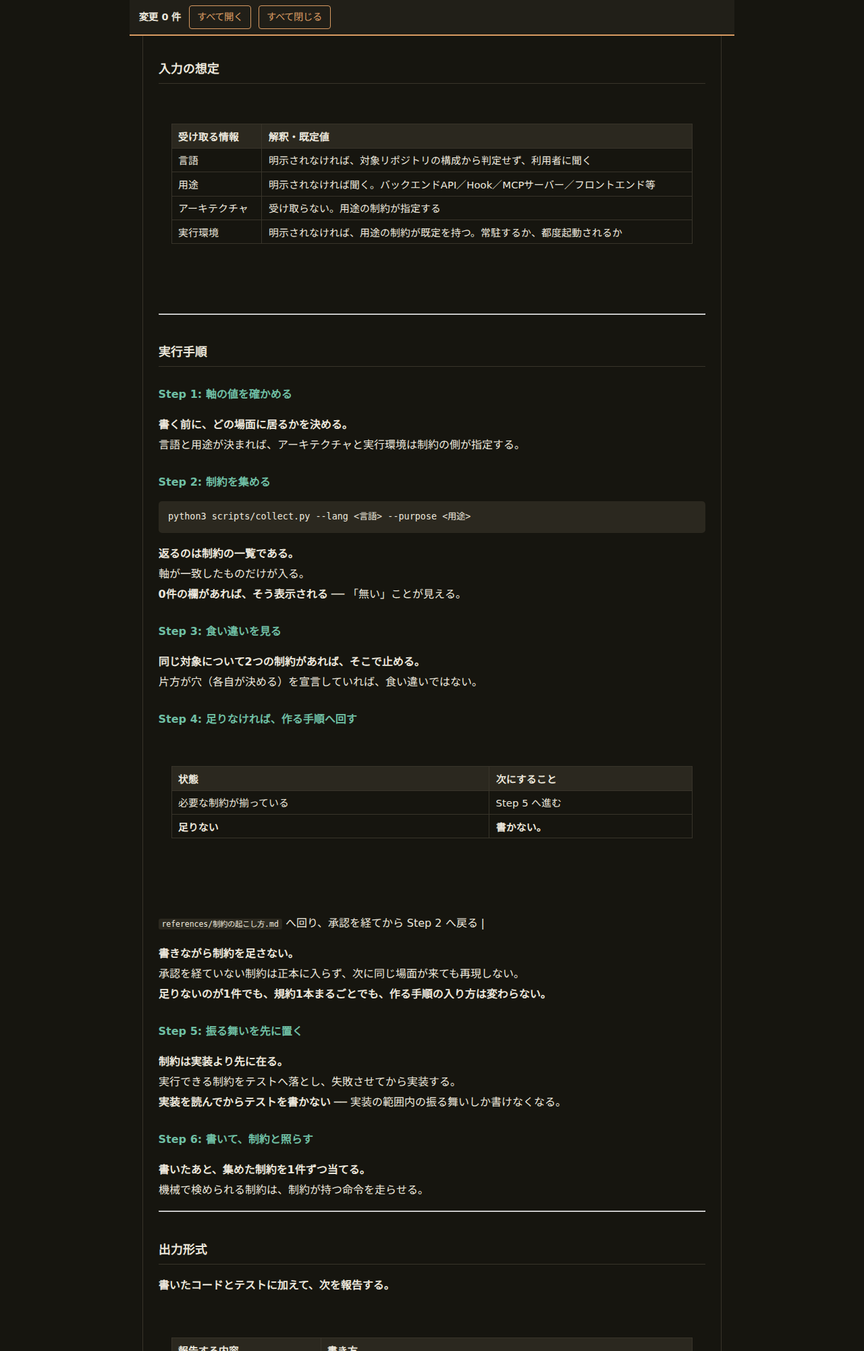
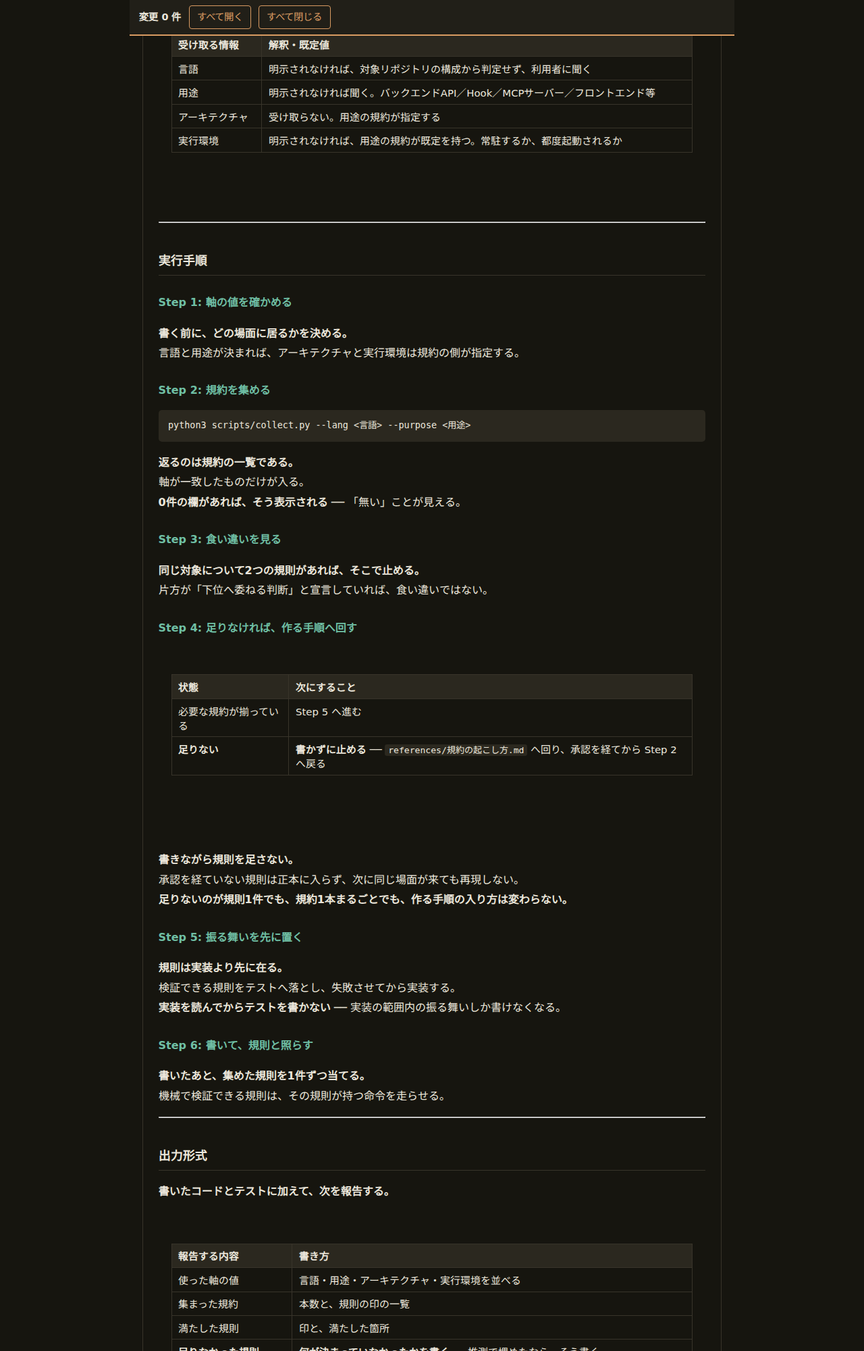
語を規約・規則・宣言へ統一し、割れた表を直す
制約という語をやめ、規約（文書1本）・規則（言明1件）・宣言（表と図）に分けた。
references/制約の起こし方.md を規約の起こし方.md へ改名し、本文の語も全部
揃えた（残り0件）。

強調の自動修正が表の行を割っていたので、6行をつなぎ直し、表の中では
「。**」の代わりに「── 」で繋ぐようにした。

Claude-Session: https://claude.ai/code/session_01VoPqHBXHr7Npdh9tNXyFNU

diff --git a/docs/adr/coding-skills-templates.html b/docs/adr/coding-skills-templates.html
@@ -85,100 +85,90 @@ color:inherit;opacity:.8;background:rgba(128,128,128,.12);padding:.5rem .6rem;bo
 
 <div class="wrap">
 <h1>CodingSkills の雛形（候補・第2版）</h1>
-<p class="lede"><b>規約は、種別ごとに構造が違う。</b>構造（表と図で宣言する）／規則（守るべき言明の並び）／道具（道具と版の表）／保証（何をどの単位で確かめるか）の4つの雛形を持つ。<b>層の構成やフォルダの並びは、守るべき言明の羅列では表せない。</b>実例は規則と構造の2本を置いた。</p>
+<p class="lede"><b>規約は、種別ごとに構造が違う。</b>構造（表と図で宣言する）／規則（守るべき言明の並び）／道具（道具と版の表）／保証（何をどの単位で確かめるか）の4つの雛形を持つ。<b>層の構成やフォルダの並びは、守るべき言明の羅列では表せない。</b>語も直した ── 出どころ→出典、検め方→検証、守った例／破った例→適合例／違反例、空けた穴→下位へ委ねる判断。</p>
 
 <div id="bar"><b>変更 0 件</b>
 <button id="oa">すべて開く</button><button id="ca">すべて閉じる</button></div>
 <div id="tabs" role="tablist"><button class="tab" role="tab" data-t="s">SKILL.md<span class="n">0</span></button><button class="tab" role="tab" data-t="v">references／語彙<span class="n">0</span></button><button class="tab" role="tab" data-t="a">references／軸<span class="n">0</span></button><button class="tab" role="tab" data-t="src">references／出典<span class="n">0</span></button><button class="tab" role="tab" data-t="ld">references／層ごとの規約<span class="n">0</span></button><button class="tab" role="tab" data-t="hw">references／規約の起こし方<span class="n">0</span></button><button class="tab" role="tab" data-t="t1">雛形／構造<span class="n">0</span></button><button class="tab" role="tab" data-t="t2">雛形／規則<span class="n">0</span></button><button class="tab" role="tab" data-t="t3">雛形／道具<span class="n">0</span></button><button class="tab" role="tab" data-t="t4">雛形／保証<span class="n">0</span></button><button class="tab" role="tab" data-t="e1">実例／規則　lang.rust／failure<span class="n">0</span></button><button class="tab" role="tab" data-t="e2">実例／構造　arch.hexagonal／layers<span class="n">0</span></button><button class="tab" role="tab" data-t="sc">scripts／README<span class="n">0</span></button></div>
 <section class="pane md" data-k="s" hidden><div class="doc"><hr>
-<p>name: coding-skills<br>description: 目的と言語を受け取り、その場面に効く制約を集めて、それに従ってコードを書くときに使う。制約が足りないときは、書く前に制約を起こす手順へ回す。「Goでバックエンドを書く」「RustでHookを書く」「この規約に沿って実装して」と言われたときに使う。</p>
+<p>name: coding-skills<br>description: 目的と言語を受け取り、その場面に効く規約を集めて、それに従ってコードを書くときに使う。規約が足りないときは、書く前に規約を起こす手順へ回す。「Goでバックエンドを書く」「RustでHookを書く」「この規約に沿って実装して」と言われたときに使う。</p>
 <hr>
 <h2>目的</h2>
-<p><strong>その場面に効く制約だけを集め、制約に従って書く。</strong><br>制約は選択肢を減らす言明であり、<strong>どの制約にも、それが真であり続ける範囲がある</strong>。<br>範囲は軸（言語・アーキテクチャ・用途・実行環境）の組み合わせで決まる。</p>
-<p><strong>このSkillは、書きながら制約を作らない。</strong><br>足りないと分かったら、書く手を止めて <code>references/制約の起こし方.md</code> へ回る。<br><strong>新しい言語・アーキテクチャ・用途が来たら、そこで規約を新しく起こす</strong> ── ただし作る手順を通り、人の承認を経てからである。</p>
-<div class="wrap"><table><tr><th>語</th><th>何を指すか</th></tr><tr><td>規約</td><td>1本の文書。ファイル1つ。**</td></tr></table></div>
-<p>種別ごとに構造が違う**（構造／規則／道具／保証） |</p>
-<div class="wrap"><table></table></div>
+<p><strong>その場面に効く規約だけを集め、それに従って書く。</strong><br>規約が持つ規則は選択肢を減らす言明であり、<strong>どの規則にも、それが真であり続ける範囲がある</strong>。<br>範囲は軸（言語・アーキテクチャ・用途・実行環境）の組み合わせで決まる。</p>
+<p><strong>このSkillは、書きながら規約を作らない。</strong><br>足りないと分かったら、書く手を止めて <code>references/規約の起こし方.md</code> へ回る。<br><strong>新しい言語・アーキテクチャ・用途が来たら、そこで規約を新しく起こす</strong> ── ただし作る手順を通り、人の承認を経てからである。</p>
+<div class="wrap"><table><tr><th>語</th><th>何を指すか</th></tr><tr><td>規約</td><td>1本の文書。ファイル1つ。<strong>種別ごとに構造が違う</strong>（構造／規則／道具／保証）</td></tr><tr><td>規則</td><td>守るべき言明1件。規則の規約と保証の規約だけが持つ</td></tr></table></div>
 <p><strong>語の一覧は <code>references/語彙.md</code> にある。</strong></p>
 <hr>
 <h2>役割</h2>
-<p>- 入力の軸の値から、合致する制約を集める<br>- 集めた制約が、同じ対象について食い違っていないかを見る<br>- 実行できる制約はテストへ、それ以外は書き方の拘束として実装へ渡す<br>- 足りない制約に気づいたら、書く前に作る手順へ回す</p>
+<p>- 入力の軸の値から、合致する規約を集める<br>- 集めた規約が、同じ対象について食い違っていないかを見る<br>- 検証できる規則はテストへ、それ以外は書き方の拘束として実装へ渡す<br>- 足りない規約に気づいたら、書く前に作る手順へ回す</p>
 <hr>
 <h2>処理対象と成果物</h2>
 <h3>処理対象</h3>
 <p><strong>これから書くコードと、その場面を表す軸の値である。</strong></p>
 <h3>成果物</h3>
-<p><strong>制約を満たすコードと、そのテストである。</strong><br>集めた制約のうち、どれを満たし、どれが足りなかったかを添える。</p>
+<p><strong>規約を満たすコードと、そのテストである。</strong><br>集めた規則のうち、どれを満たし、どれが足りなかったかを添える。</p>
 <hr>
 <h2>入力の想定</h2>
-<div class="wrap"><table><tr><th>受け取る情報</th><th>解釈・既定値</th></tr><tr><td>言語</td><td>明示されなければ、対象リポジトリの構成から判定せず、利用者に聞く</td></tr><tr><td>用途</td><td>明示されなければ聞く。バックエンドAPI／Hook／MCPサーバー／フロントエンド等</td></tr><tr><td>アーキテクチャ</td><td>受け取らない。用途の制約が指定する</td></tr><tr><td>実行環境</td><td>明示されなければ、用途の制約が既定を持つ。常駐するか、都度起動されるか</td></tr></table></div>
+<div class="wrap"><table><tr><th>受け取る情報</th><th>解釈・既定値</th></tr><tr><td>言語</td><td>明示されなければ、対象リポジトリの構成から判定せず、利用者に聞く</td></tr><tr><td>用途</td><td>明示されなければ聞く。バックエンドAPI／Hook／MCPサーバー／フロントエンド等</td></tr><tr><td>アーキテクチャ</td><td>受け取らない。用途の規約が指定する</td></tr><tr><td>実行環境</td><td>明示されなければ、用途の規約が既定を持つ。常駐するか、都度起動されるか</td></tr></table></div>
 <hr>
 <h2>実行手順</h2>
 <h3>Step 1: 軸の値を確かめる</h3>
-<p><strong>書く前に、どの場面に居るかを決める。</strong><br>言語と用途が決まれば、アーキテクチャと実行環境は制約の側が指定する。</p>
-<h3>Step 2: 制約を集める</h3>
+<p><strong>書く前に、どの場面に居るかを決める。</strong><br>言語と用途が決まれば、アーキテクチャと実行環境は規約の側が指定する。</p>
+<h3>Step 2: 規約を集める</h3>
 <pre class="code">python3 scripts/collect.py --lang &lt;言語&gt; --purpose &lt;用途&gt;</pre>
-<p><strong>返るのは制約の一覧である。</strong><br>軸が一致したものだけが入る。<br><strong>0件の欄があれば、そう表示される</strong> ── 「無い」ことが見える。</p>
+<p><strong>返るのは規約の一覧である。</strong><br>軸が一致したものだけが入る。<br><strong>0件の欄があれば、そう表示される</strong> ── 「無い」ことが見える。</p>
 <h3>Step 3: 食い違いを見る</h3>
-<p><strong>同じ対象について2つの制約があれば、そこで止める。</strong><br>片方が穴（各自が決める）を宣言していれば、食い違いではない。</p>
+<p><strong>同じ対象について2つの規則があれば、そこで止める。</strong><br>片方が「下位へ委ねる判断」と宣言していれば、食い違いではない。</p>
 <h3>Step 4: 足りなければ、作る手順へ回す</h3>
-<div class="wrap"><table><tr><th>状態</th><th>次にすること</th></tr><tr><td>必要な制約が揃っている</td><td>Step 5 へ進む</td></tr><tr><td><strong>足りない</strong></td><td><strong>書かない。</strong></td></tr></table></div>
-<p><code>references/制約の起こし方.md</code> へ回り、承認を経てから Step 2 へ戻る |</p>
-<p><strong>書きながら制約を足さない。</strong><br>承認を経ていない制約は正本に入らず、次に同じ場面が来ても再現しない。<br><strong>足りないのが1件でも、規約1本まるごとでも、作る手順の入り方は変わらない。</strong></p>
+<div class="wrap"><table><tr><th>状態</th><th>次にすること</th></tr><tr><td>必要な規約が揃っている</td><td>Step 5 へ進む</td></tr><tr><td><strong>足りない</strong></td><td><strong>書かずに止める</strong> ── <code>references/規約の起こし方.md</code> へ回り、承認を経てから Step 2 へ戻る</td></tr></table></div>
+<p><strong>書きながら規則を足さない。</strong><br>承認を経ていない規則は正本に入らず、次に同じ場面が来ても再現しない。<br><strong>足りないのが規則1件でも、規約1本まるごとでも、作る手順の入り方は変わらない。</strong></p>
 <h3>Step 5: 振る舞いを先に置く</h3>
-<p><strong>制約は実装より先に在る。</strong><br>実行できる制約をテストへ落とし、失敗させてから実装する。<br><strong>実装を読んでからテストを書かない</strong> ── 実装の範囲内の振る舞いしか書けなくなる。</p>
-<h3>Step 6: 書いて、制約と照らす</h3>
-<p><strong>書いたあと、集めた制約を1件ずつ当てる。</strong><br>機械で検められる制約は、制約が持つ命令を走らせる。</p>
+<p><strong>規則は実装より先に在る。</strong><br>検証できる規則をテストへ落とし、失敗させてから実装する。<br><strong>実装を読んでからテストを書かない</strong> ── 実装の範囲内の振る舞いしか書けなくなる。</p>
+<h3>Step 6: 書いて、規則と照らす</h3>
+<p><strong>書いたあと、集めた規則を1件ずつ当てる。</strong><br>機械で検証できる規則は、その規則が持つ命令を走らせる。</p>
 <hr>
 <h2>出力形式</h2>
 <p><strong>書いたコードとテストに加えて、次を報告する。</strong></p>
-<div class="wrap"><table><tr><th>報告する内容</th><th>書き方</th></tr><tr><td>使った軸の値</td><td>言語・用途・アーキテクチャ・実行環境を並べる</td></tr><tr><td>集まった制約</td><td>件数と、印の一覧</td></tr><tr><td>満たした制約</td><td>印と、満たした箇所</td></tr><tr><td><strong>足りなかった制約</strong></td><td><strong>何が決まっていなかったかを書く。</strong></td></tr></table></div>
-<p>推測で埋めたなら、そう書く |</p>
-<div class="wrap"><table></table></div>
+<div class="wrap"><table><tr><th>報告する内容</th><th>書き方</th></tr><tr><td>使った軸の値</td><td>言語・用途・アーキテクチャ・実行環境を並べる</td></tr><tr><td>集まった規約</td><td>本数と、規則の印の一覧</td></tr><tr><td>満たした規則</td><td>印と、満たした箇所</td></tr><tr><td><strong>足りなかった規則</strong></td><td><strong>何が決まっていなかったかを書く</strong> ── 推測で埋めたなら、そう書く</td></tr><tr><td>検証した手段</td><td>走らせた命令と、その結果</td></tr></table></div>
 <hr>
 <h2>ガードレール</h2>
-<p>- <strong>書きながら制約を足さない。</strong><br>足りないと分かったら、作る手順へ回す<br>- <strong>実装を読んでからテストを書かない。</strong><br>制約が先に在る<br>- <strong>軸の値を推測しない。</strong><br>分からなければ聞く<br>- <strong>集めた制約を要約しない。</strong><br>言明はそのまま当てる<br>- <strong>プロジェクト固有の決めごとを制約として扱わない。</strong><br>出典を持たないものは制約ではない<br>- <strong>穴（各自が決める）の外を特殊化しない。</strong><br>必要なら、上の層の制約を直す</p>
+<p>- <strong>書きながら規則を足さない。</strong><br>足りないと分かったら、作る手順へ回す<br>- <strong>実装を読んでからテストを書かない。</strong><br>規則が先に在る<br>- <strong>軸の値を推測しない。</strong><br>分からなければ聞く<br>- <strong>集めた規則を要約しない</strong> ── 言明はそのまま当てる<br>- <strong>プロジェクト固有の決めごとを規則として扱わない</strong> ──<br>出典を持たないものは規則ではない<br>- <strong>穴（各自が決める）の外を特殊化しない。</strong><br>必要なら、上の層の規約を直す</p>
 <hr>
 <h2>参照</h2>
-<p>- <code>references/制約の起こし方.md</code>: 制約を新しく起こす手順（原典を落とす → 書く → 承認）<br>- <code>references/軸.md</code>: 軸の定義と、軸を足すときの判定<br>- <code>references/出典.md</code>: 何を出典として認めるか<br>- <code>references/層ごとの文書.md</code>: どの層に、どの文書を置くか<br>- <code>references/語彙.md</code>: この Skill が使う語<br>- <code>templates/構造の規約.md</code>: 層や依存を宣言する規約の雛形<br>- <code>templates/規則の規約.md</code>: 守るべき言明を並べる規約の雛形<br>- <code>templates/道具の規約.md</code>: 道具と版を定める規約の雛形<br>- <code>templates/保証の規約.md</code>: 保証する振る舞いを定める規約の雛形</p></div></section><section class="pane md" data-k="v" hidden><div class="doc"><h1>語彙 ── この Skill が使う語</h1>
+<p>- <code>references/規約の起こし方.md</code>: 規約を新しく起こす手順（原典を落とす → 書く → 承認）<br>- <code>references/軸.md</code>: 軸の定義と、軸を足すときの判定<br>- <code>references/出典.md</code>: 何を出典として認めるか<br>- <code>references/層ごとの文書.md</code>: どの層に、どの文書を置くか<br>- <code>references/語彙.md</code>: この Skill が使う語<br>- <code>templates/構造の規約.md</code>: 層や依存を宣言する規約の雛形<br>- <code>templates/規則の規約.md</code>: 守るべき言明を並べる規約の雛形<br>- <code>templates/道具の規約.md</code>: 道具と版を定める規約の雛形<br>- <code>templates/保証の規約.md</code>: 保証する振る舞いを定める規約の雛形</p></div></section><section class="pane md" data-k="v" hidden><div class="doc"><h1>語彙 ── この Skill が使う語</h1>
 <h2>概要</h2>
 <p><strong>同じ意味に2つの語を当てず、違う意味に同じ語を当てない。</strong><br>迷ったら、この表に戻る。</p>
 <h2>語</h2>
-<div class="wrap"><table><tr><th>語</th><th>何を指すか</th><th>例</th></tr><tr><td><strong>規約</strong></td><td>1本の文書。ファイル1つ。**</td></tr></table></div>
-<p>種別ごとに構造が違う** | <code>constraints/lang.rust/failure.md</code> |</p>
-<div class="wrap"><table><tr><th><strong>規則</strong></th><th>守るべき言明1件。規則の規約と保証の規約だけが持つ</th><th>「回復できる失敗は <code>Result</code> で返す」</th></tr><tr><td><strong>宣言</strong></td><td>構造や道具を並べた表と図。規則ではない</td><td>層の一覧、依存の可否、道具と版</td></tr><tr><td><strong>軸</strong></td><td>変えられるもの。言語・アーキテクチャ・用途・実行環境</td><td>言語＝<code>rust</code></td></tr><tr><td><strong>種別</strong></td><td>規約の型。構造／規則／道具／保証の4つ</td><td><code>failure.md</code> は規則</td></tr><tr><td><strong>層</strong></td><td>その制約が依存する軸の集合。宣言から導出される</td><td><code>lang.rust+arch.hexagonal</code></td></tr><tr><td><strong>下位へ委ねる判断</strong></td><td>上位が決めず、下位が決めてよいと宣言した1点</td><td>失敗の列挙の粒度</td></tr><tr><td><strong>正本</strong></td><td>承認を経た規約が置かれる場所</td><td><code>constraints/</code> の下</td></tr><tr><td><strong>集める</strong></td><td>軸の値が一致した規約を、正本から取り出すこと</td><td><code>scripts/collect.py</code></td></tr></table></div>
+<div class="wrap"><table><tr><th>語</th><th>何を指すか</th><th>例</th></tr><tr><td><strong>規約</strong></td><td>1本の文書。ファイル1つ。<strong>種別ごとに構造が違う</strong></td><td><code>constraints/lang.rust/failure.md</code></td></tr><tr><td><strong>規則</strong></td><td>守るべき言明1件。規則の規約と保証の規約だけが持つ</td><td>「回復できる失敗は <code>Result</code> で返す」</td></tr><tr><td><strong>宣言</strong></td><td>構造や道具を並べた表と図。規則ではない</td><td>層の一覧、依存の可否、道具と版</td></tr><tr><td><strong>軸</strong></td><td>変えられるもの。言語・アーキテクチャ・用途・実行環境</td><td>言語＝<code>rust</code></td></tr><tr><td><strong>種別</strong></td><td>規約の型。構造／規則／道具／保証の4つ</td><td><code>failure.md</code> は規則</td></tr><tr><td><strong>層</strong></td><td>その規約が依存する軸の集合。宣言から導出される</td><td><code>lang.rust+arch.hexagonal</code></td></tr><tr><td><strong>下位へ委ねる判断</strong></td><td>上位が決めず、下位が決めてよいと宣言した1点</td><td>失敗の列挙の粒度</td></tr><tr><td><strong>正本</strong></td><td>承認を経た規約が置かれる場所</td><td><code>constraints/</code> の下</td></tr><tr><td><strong>集める</strong></td><td>軸の値が一致した規約を、正本から取り出すこと</td><td><code>scripts/collect.py</code></td></tr></table></div>
 <h2>使わない語</h2>
 <div class="wrap"><table><tr><th>使わない語</th><th>代わりに</th><th>なぜ</th></tr><tr><td>ルール</td><td>規則／規約</td><td>1件を指すのか文書を指すのかが決まらない</td></tr><tr><td>ガイドライン</td><td>規則</td><td>守らなくてよいものに見える。守らなくてよいなら、規則として置かない</td></tr><tr><td>ベストプラクティス</td><td>規則 ＋ 出典</td><td>出典を持たない言明は、この Skill では置けない</td></tr></table></div>
 <h2>数え方</h2>
-<div class="wrap"><table><tr><th>数えるもの</th><th>単位</th></tr><tr><td>規則</td><td>件</td></tr><tr><td>規約</td><td>本</td></tr><tr><td>層</td><td>── 数えない。軸の組み合わせが現れた数だけ在る</td></tr></table></div></div></section><section class="pane md" data-k="a" hidden><div class="doc"><h1>軸 ── 何が変わると、制約が変わるか</h1>
+<div class="wrap"><table><tr><th>数えるもの</th><th>単位</th></tr><tr><td>規則</td><td>件</td></tr><tr><td>規約</td><td>本</td></tr><tr><td>層</td><td>── 数えない。軸の組み合わせが現れた数だけ在る</td></tr></table></div></div></section><section class="pane md" data-k="a" hidden><div class="doc"><h1>軸 ── 何が変わると、規約が変わるか</h1>
 <h2>概要</h2>
-<p><strong>軸とは、変えられるもののことである。</strong><br>制約は、依存する軸の値が一致した場面でだけ効く。</p>
+<p><strong>軸とは、変えられるもののことである。</strong><br>規約は、依存する軸の値が一致した場面でだけ効く。</p>
 <h2>軸と認める条件</h2>
 <p><strong>一方を固定しても、もう一方が動くなら、それは別の軸である。</strong><br>独立かどうかは概念の性質なので、<strong>実例の件数では決めない</strong>。</p>
 <h2>いまの軸</h2>
 <div class="wrap"><table><tr><th>軸</th><th>値の例</th><th>何が決まるか</th></tr><tr><td>言語</td><td><code>go</code> ／ <code>rust</code></td><td>綴りと書式、失敗の運び方、並行の単位、テストが走る仕組み、標準の道具</td></tr><tr><td>アーキテクチャ</td><td><code>hexagonal</code></td><td>層の名前、依存の向き、層ごとの責務</td></tr><tr><td>用途</td><td><code>backend-api</code> ／ <code>hook</code> ／ <code>mcp-server</code> ／ <code>frontend</code></td><td>外との契約、起動と終了、保証する振る舞い、採るアーキテクチャ、採る道具</td></tr><tr><td>実行環境</td><td><code>resident</code> ／ <code>per-invocation</code></td><td>状態の持ち方、終了の仕方、起動のたびに払う費用</td></tr></table></div>
 <h2>軸を足すとき</h2>
-<div class="wrap"><table><tr><th>手順</th><th>内容</th></tr><tr><td>1</td><td>いまの軸のどれかを固定しても、その候補が動くかを確かめる</td></tr><tr><td>2</td><td>動くなら軸に上げる。動かないなら、既存の軸の値として表す</td></tr><tr><td>3</td><td><strong>既にある制約の宣言を見直す。</strong></td></tr></table></div>
-<p>足した軸に依存していた制約が、広すぎる宣言のまま残る |</p>
+<div class="wrap"><table><tr><th>手順</th><th>内容</th></tr><tr><td>1</td><td>いまの軸のどれかを固定しても、その候補が動くかを確かめる</td></tr><tr><td>2</td><td>動くなら軸に上げる。動かないなら、既存の軸の値として表す</td></tr><tr><td>3</td><td><strong>既にある規約の宣言を見直す</strong> ── 足した軸に依存していた規則が、広すぎる宣言のまま残る</td></tr></table></div>
 <h2>層</h2>
-<p><strong>層とは、その制約が依存する軸の集合である。</strong><br>層は宣言から導出されるので、<strong>あらかじめ並べない</strong>。</p>
+<p><strong>層とは、その規約が依存する軸の集合である。</strong><br>層は宣言から導出されるので、<strong>あらかじめ並べない</strong>。</p>
 <div class="wrap"><table><tr><th>層</th><th>依存する軸</th></tr><tr><td><code>lang.rust</code></td><td>言語</td></tr><tr><td><code>arch.hexagonal</code></td><td>アーキテクチャ</td></tr><tr><td><code>lang.rust+arch.hexagonal</code></td><td>言語、アーキテクチャ</td></tr><tr><td><code>purpose.hook</code></td><td>用途</td></tr></table></div>
 <h2>上書き</h2>
-<p><strong>下層は上層を上書きできない。</strong><br>上書きが要ると分かったら、それは<strong>その制約の軸の宣言が足りなかった</strong>ことの現れである。<br>値を変えず、依存する軸を直す。</p>
-<p><strong>例外は、上層が穴を宣言している場合だけである。</strong><br>穴の外は特殊化できない。</p></div></section><section class="pane md" data-k="src" hidden><div class="doc"><h1>出典 ── 制約は、何を根拠に書けるか</h1>
+<p><strong>下層は上層を上書きできない。</strong><br>上書きが要ると分かったら、それは<strong>その規約の軸の宣言が足りなかった</strong>ことの現れである。<br>値を変えず、依存する軸を直す。</p>
+<p><strong>例外は、上層が穴を宣言している場合だけである。</strong><br>穴の外は特殊化できない。</p></div></section><section class="pane md" data-k="src" hidden><div class="doc"><h1>出典 ── 規則は、何を根拠に書けるか</h1>
 <h2>概要</h2>
-<p><strong>出典を書けない制約は、制約として置けない。</strong><br>「誰かがそう決めた」しか言えないものは、他のプロジェクトへ持って行けない。</p>
+<p><strong>出典を書けない規則は、規則として置けない。</strong><br>「誰かがそう決めた」しか言えないものは、他のプロジェクトへ持って行けない。</p>
 <h2>認める出典</h2>
 <div class="wrap"><table><tr><th>種類</th><th>何を指すか</th><th>添えるもの</th></tr><tr><td>規格</td><td>言語仕様、RFC、プロトコルの仕様</td><td>版と、原文で照合する文字列</td></tr><tr><td>原典</td><td>公式ガイド、公式リファレンス、確立した文献</td><td>落とした日と、原文で照合する文字列</td></tr><tr><td>実測</td><td>自分で数えた記録</td><td>測った対象、件数、測った日</td></tr></table></div>
 <h2>認めない出典</h2>
-<div class="wrap"><table><tr><th>種類</th><th>なぜ認めないか</th></tr><tr><td>このプロジェクトの決めごと</td><td>場面が変われば成り立たない。**</td></tr></table></div>
-<p>入れた時点で、どの場面でも同じ答えを返すという前提が壊れる** |</p>
-<div class="wrap"><table><tr><th>要約されたもの</th><th>言い換えた時点で、原典とは別のものになる</th></tr><tr><td>出典を持たない経験則</td><td>正しいかもしれないが、確かめる先が無い</td></tr></table></div>
+<div class="wrap"><table><tr><th>種類</th><th>なぜ認めないか</th></tr><tr><td>このプロジェクトの決めごと</td><td>場面が変われば成り立たない。<strong>入れた時点で、どの場面でも同じ答えを返すという前提が壊れる</strong></td></tr><tr><td>要約されたもの</td><td>言い換えた時点で、原典とは別のものになる</td></tr><tr><td>出典を持たない経験則</td><td>正しいかもしれないが、確かめる先が無い</td></tr></table></div>
 <h2>照合の仕方</h2>
-<div class="wrap"><table><tr><th>手順</th><th>内容</th></tr><tr><td>1</td><td>原文を落とし、落とした日と <code>sha256</code> を残す</td></tr><tr><td>2</td><td>制約が使う識別子を、<strong>原文の文字列でそのまま照合する</strong></td></tr><tr><td>3</td><td>照合できなかった識別子は、原典の名前として書かない</td></tr></table></div>
+<div class="wrap"><table><tr><th>手順</th><th>内容</th></tr><tr><td>1</td><td>原文を落とし、落とした日と <code>sha256</code> を残す</td></tr><tr><td>2</td><td>規則が使う識別子を、<strong>原文の文字列でそのまま照合する</strong></td></tr><tr><td>3</td><td>照合できなかった識別子は、原典の名前として書かない</td></tr></table></div>
 <p><strong>URL だけでは足りない。</strong><br>指す先に届いているかを、誰も確かめられないためである。</p>
 <h2>版が変わったとき</h2>
-<p><strong>「公式」であることは、正しさを保証しない。</strong><br>版が上がったら、照合する文字列がまだ原文に在るかを確かめる。<br>無ければ、その制約は出典を失っている。</p></div></section><section class="pane md" data-k="ld" hidden><div class="doc"><h1>層ごとの規約 ── どの層に、どの規約を置くか</h1>
+<p><strong>「公式」であることは、正しさを保証しない。</strong><br>版が上がったら、照合する文字列がまだ原文に在るかを確かめる。<br>無ければ、その規則は出典を失っている。</p></div></section><section class="pane md" data-k="ld" hidden><div class="doc"><h1>層ごとの規約 ── どの層に、どの規約を置くか</h1>
 <h2>概要</h2>
 <p><strong>層ごとに、決められることが違う。</strong><br>だから置く規約も層ごとに違い、<strong>同じ4種別をすべての層へ並べない</strong>。</p>
 <h2>決められること／決められないこと</h2>
@@ -191,14 +181,14 @@ color:inherit;opacity:.8;background:rgba(128,128,128,.12);padding:.5rem .6rem;bo
 <p><strong>構造と道具は宣言であって、規則ではない。</strong><br>層の構成やフォルダの並びを、守るべき言明の羅列では表せない。</p>
 <div class="wrap"><table><tr><th>引きたいこと</th><th>どう引くか</th></tr><tr><td>この場面に効く規約を全部</td><td>軸の値で集める</td></tr><tr><td>構造の宣言だけ</td><td>種別で絞る</td></tr></table></div>
 <h2>空のマス</h2>
-<p><strong>その層で決まらないことの規約は、作らない。</strong><br>言語の層に「層と依存の向き」は無いので、<code>lang.go/dependency.md</code> は置かない。</p></div></section><section class="pane md" data-k="hw" hidden><div class="doc"><h1>制約の起こし方 ── 作る手順</h1>
+<p><strong>その層で決まらないことの規約は、作らない。</strong><br>言語の層に「層と依存の向き」は無いので、<code>lang.go/dependency.md</code> は置かない。</p></div></section><section class="pane md" data-k="hw" hidden><div class="doc"><h1>規約の起こし方 ── 作る手順</h1>
 <h2>概要</h2>
-<p><strong>制約は、書く手順の中では作らない。</strong><br>足りないと分かったら、この手順へ回る。承認を経たものだけが正本に入る。</p>
+<p><strong>規約は、書く手順の中では作らない。</strong><br>足りないと分かったら、この手順へ回る。承認を経たものだけが正本に入る。</p>
 <h2>手順</h2>
 <h3>Step 1: 原典を落とす</h3>
 <p><strong>要約を経由しない。</strong><br>原文を落とし、落とした日と <code>sha256</code> を残す。</p>
 <div class="wrap"><table><tr><th>対象</th><th>どう落とすか</th></tr><tr><td>言語仕様・公式ガイド</td><td>原文を取得して保存する。<code>.md</code> が返るなら、それが原文である</td></tr><tr><td>規格</td><td>版を明示して保存する</td></tr><tr><td>実測</td><td>測った対象・件数・測った日を、そのまま記録する</td></tr></table></div>
-<p><strong>原典が見つからないなら、そこで止める。</strong><br>出典を持たない制約は置けない。</p>
+<p><strong>原典が見つからないなら、そこで止める。</strong><br>出典を持たない規則は置けない。</p>
 <h3>Step 2: 言明を一文にする</h3>
 <p><strong>検査できる最小の言明にする。</strong><br>理由も例外も混ぜない。</p>
 <div class="wrap"><table><tr><th>悪い</th><th>なぜ悪いか</th><th>良い</th></tr><tr><td>エラーは値で返す。例外は呼び出し側が見落とすため</td><td>言明と理由が1文に入っている</td><td>エラーは値で返し、例外で流さない</td></tr><tr><td>命名は分かりやすくする</td><td>検査できない</td><td>型名は名詞句にし、動詞で始めない</td></tr></table></div>
@@ -208,18 +198,18 @@ color:inherit;opacity:.8;background:rgba(128,128,128,.12);padding:.5rem .6rem;bo
 <div class="wrap"><table><tr><th>問い</th><th>判定</th></tr><tr><td>言語を変えても真か</td><td>真なら、言語には依存しない</td></tr><tr><td>アーキテクチャを変えても真か</td><td>真なら、アーキテクチャには依存しない</td></tr><tr><td>用途を変えても真か</td><td>真なら、用途には依存しない</td></tr></table></div>
 <p><strong>依存する軸の集合が、そのまま置き場所（層）になる。</strong></p>
 <h3>Step 4: 欄を埋める</h3>
-<p><code>templates/制約.md</code> を写して埋める。<br><strong>埋まらない欄が残るなら、まだ制約になっていない。</strong></p>
+<p>その規約の種別に当たる雛形（<code>templates/構造の規約.md</code> など）を写して埋める。<br><strong>埋まらない欄が残るなら、まだ規約になっていない。</strong></p>
 <h3>Step 5: 検め方を決める</h3>
 <div class="wrap"><table><tr><th>誰が検めるか</th><th>書くこと</th></tr><tr><td>機械</td><td>走らせる命令を、そのまま書く</td></tr><tr><td>人</td><td>何を見るかを書く。「気をつける」とは書かない</td></tr></table></div>
 <h3>Step 6: 人の承認を得る</h3>
-<p><strong>承認を経てから、正本へ置く。</strong><br>承認されていない制約は、集める側から見えない。</p>
+<p><strong>承認を経てから、正本へ置く。</strong><br>承認されていない規約は、集める側から見えない。</p>
 <h3>Step 7: 索引を作り直す</h3>
 <pre class="code">python3 scripts/index.py</pre>
 <p><strong>索引は導出物である。</strong><br>手で書かない。</p>
-<h2>穴を宣言するとき</h2>
+<h2>下位へ委ねる判断を宣言するとき</h2>
 <p><strong>決めないことも、決定である。</strong><br>「ここは各自が決める」と書けば、下の層がそこだけを埋められる。</p>
-<div class="wrap"><table><tr><th>書き方</th><th>意味</th></tr><tr><td>穴か＝閉じている</td><td>下の層は、これを特殊化できない</td></tr><tr><td>穴か＝ここは各自が決める</td><td>下の層が、この1点だけを埋めてよい</td></tr></table></div>
-<p><strong>穴を宣言しないまま、下の層が特殊化を求めてきたら、軸の宣言を疑う。</strong></p></div></section><section class="pane md" data-k="t1" hidden><div class="doc"><hr>
+<div class="wrap"><table><tr><th>書き方</th><th>意味</th></tr><tr><td>委ねない</td><td>下の層は、これを特殊化できない</td></tr><tr><td>下位へ委ねる</td><td>下の層が、この1点だけを埋めてよい</td></tr></table></div>
+<p><strong>委ねると宣言しないまま、下の層が特殊化を求めてきたら、軸の宣言を疑う。</strong></p></div></section><section class="pane md" data-k="t1" hidden><div class="doc"><hr>
 <p>id: 《識別子。フォルダ名とファイル名から作る》<br>layer: 《軸の組み合わせ。フォルダ名と同じ》<br>axes:<br>  - axis: 《language / architecture / purpose / runtime》<br>    value: 《値》<br>category: architecture<br>declares: 《この規約が宣言する構造の名前》<br>updated: 《YYYY-MM-DD》</p>
 <hr>
 <h1>《宣言する構造の名前》</h1>
@@ -348,11 +338,11 @@ color:inherit;opacity:.8;background:rgba(128,128,128,.12);padding:.5rem .6rem;bo
 <h2>出典</h2>
 <div class="wrap"><table><tr><th>種類</th><th>原典</th><th>照合する文字列</th></tr><tr><td>原典</td><td>Alistair Cockburn「Hexagonal Architecture」（落とした日：《YYYY-MM-DD》）</td><td><code>ports and adapters</code></td></tr></table></div></div></section><section class="pane md" data-k="sc" hidden><div class="doc"><h1>scripts ── 機械が回すもの</h1>
 <h2>概要</h2>
-<p><strong>集める・検める・索引を出すの3つを、機械が行う。</strong><br>同じ問いに同じ範囲が返らないと、そのあとの推論の入力が毎回変わるためである。</p>
+<p><strong>集める・検証する・索引を出すの3つを、機械が行う。</strong><br>同じ問いに同じ範囲が返らないと、そのあとの推論の入力が毎回変わるためである。</p>
 <h2>置くもの</h2>
-<div class="wrap"><table><tr><th>命令</th><th>何をするか</th><th>返すもの</th></tr><tr><td><code>collect.py --lang &lt;言語&gt; --purpose &lt;用途&gt;</code></td><td>軸の値が一致する制約を集める</td><td>制約の一覧。0件の層も、0件として出す</td></tr><tr><td><code>check.py</code></td><td>制約の形を検める</td><td>欄の欠け、出典の空、フォルダ名と宣言した軸の食い違い</td></tr><tr><td><code>index.py</code></td><td>人が読む索引を作り直す</td><td>層ごとの一覧（生成物。手で書き換えない）</td></tr></table></div>
-<h2>検めること</h2>
-<div class="wrap"><table><tr><th>検査</th><th>落ちる条件</th></tr><tr><td>欄の欠け</td><td>言明・依存する軸・出どころ・検め方のどれかが空</td></tr><tr><td>出典</td><td>原文で照合する文字列が空、または原文に無い</td></tr><tr><td>置き場所</td><td>フォルダ名と、宣言した軸が食い違う</td></tr><tr><td>重なり</td><td>同じ対象について2つの制約があり、どちらも穴を宣言していない</td></tr></table></div>
+<div class="wrap"><table><tr><th>命令</th><th>何をするか</th><th>返すもの</th></tr><tr><td><code>collect.py --lang &lt;言語&gt; --purpose &lt;用途&gt;</code></td><td>軸の値が一致する規約を集める</td><td>規約と、その中の規則。0件の層も、0件として出す</td></tr><tr><td><code>check.py</code></td><td>規約の形を検証する</td><td>欄の欠け、出典の空、フォルダ名と宣言した軸の食い違い</td></tr><tr><td><code>index.py</code></td><td>人が読む索引を作り直す</td><td>層ごとの一覧（生成物。手で書き換えない）</td></tr></table></div>
+<h2>検証すること</h2>
+<div class="wrap"><table><tr><th>検査</th><th>落ちる条件</th></tr><tr><td>欄の欠け</td><td>言明・依存する軸・出どころ・検め方のどれかが空</td></tr><tr><td>出典</td><td>原文で照合する文字列が空、または原文に無い</td></tr><tr><td>置き場所</td><td>フォルダ名と、宣言した軸が食い違う</td></tr><tr><td>重なり</td><td>同じ対象について2つの規則があり、どちらも「下位へ委ねる」と宣言していない</td></tr></table></div>
 <h2>生成物</h2>
 <p><strong>索引は生成物である。</strong><br><code>INDEX.md</code> を手で書き換えない。<br>書き換えても、次の生成で消える。</p></div></section>
 </div>

diff --git a/docs/coding-skills-draft/references/規約の起こし方.md b/docs/coding-skills-draft/references/規約の起こし方.md
@@ -1,8 +1,8 @@
-# 制約の起こし方 ── 作る手順
+# 規約の起こし方 ── 作る手順
 
 ## 概要
 
-**制約は、書く手順の中では作らない。**
+**規約は、書く手順の中では作らない。**
 足りないと分かったら、この手順へ回る。承認を経たものだけが正本に入る。
 
 ## 手順
@@ -19,7 +19,7 @@
 | 実測 | 測った対象・件数・測った日を、そのまま記録する |
 
 **原典が見つからないなら、そこで止める。**
-出典を持たない制約は置けない。
+出典を持たない規則は置けない。
 
 ### Step 2: 言明を一文にする
 
@@ -47,8 +47,8 @@
 
 ### Step 4: 欄を埋める
 
-`templates/制約.md` を写して埋める。
-**埋まらない欄が残るなら、まだ制約になっていない。**
+その規約の種別に当たる雛形（`templates/構造の規約.md` など）を写して埋める。
+**埋まらない欄が残るなら、まだ規約になっていない。**
 
 ### Step 5: 検め方を決める
 
@@ -60,7 +60,7 @@
 ### Step 6: 人の承認を得る
 
 **承認を経てから、正本へ置く。**
-承認されていない制約は、集める側から見えない。
+承認されていない規約は、集める側から見えない。
 
 ### Step 7: 索引を作り直す
 
@@ -71,14 +71,14 @@ python3 scripts/index.py
 **索引は導出物である。**
 手で書かない。
 
-## 穴を宣言するとき
+## 下位へ委ねる判断を宣言するとき
 
 **決めないことも、決定である。**
 「ここは各自が決める」と書けば、下の層がそこだけを埋められる。
 
 | 書き方 | 意味 |
 |---|---|
-| 穴か＝閉じている | 下の層は、これを特殊化できない |
-| 穴か＝ここは各自が決める | 下の層が、この1点だけを埋めてよい |
+| 委ねない | 下の層は、これを特殊化できない |
+| 下位へ委ねる | 下の層が、この1点だけを埋めてよい |
 
-**穴を宣言しないまま、下の層が特殊化を求めてきたら、軸の宣言を疑う。**
+**委ねると宣言しないまま、下の層が特殊化を求めてきたら、軸の宣言を疑う。**

diff --git a/docs/coding-skills-draft/references/出典.md b/docs/coding-skills-draft/references/出典.md
@@ -1,8 +1,8 @@
-# 出典 ── 制約は、何を根拠に書けるか
+# 出典 ── 規則は、何を根拠に書けるか
 
 ## 概要
 
-**出典を書けない制約は、制約として置けない。**
+**出典を書けない規則は、規則として置けない。**
 「誰かがそう決めた」しか言えないものは、他のプロジェクトへ持って行けない。
 
 ## 認める出典
@@ -17,8 +17,7 @@
 
 | 種類 | なぜ認めないか |
 |---|---|
-| このプロジェクトの決めごと | 場面が変われば成り立たない。**
-入れた時点で、どの場面でも同じ答えを返すという前提が壊れる** |
+| このプロジェクトの決めごと | 場面が変われば成り立たない。**入れた時点で、どの場面でも同じ答えを返すという前提が壊れる** |
 | 要約されたもの | 言い換えた時点で、原典とは別のものになる |
 | 出典を持たない経験則 | 正しいかもしれないが、確かめる先が無い |
 
@@ -27,7 +26,7 @@
 | 手順 | 内容 |
 |---|---|
 | 1 | 原文を落とし、落とした日と `sha256` を残す |
-| 2 | 制約が使う識別子を、**原文の文字列でそのまま照合する** |
+| 2 | 規則が使う識別子を、**原文の文字列でそのまま照合する** |
 | 3 | 照合できなかった識別子は、原典の名前として書かない |
 
 **URL だけでは足りない。**
@@ -37,4 +36,4 @@
 
 **「公式」であることは、正しさを保証しない。**
 版が上がったら、照合する文字列がまだ原文に在るかを確かめる。
-無ければ、その制約は出典を失っている。
+無ければ、その規則は出典を失っている。

diff --git a/docs/coding-skills-draft/scripts/README.md b/docs/coding-skills-draft/scripts/README.md
@@ -2,25 +2,25 @@
 
 ## 概要
 
-**集める・検める・索引を出すの3つを、機械が行う。**
+**集める・検証する・索引を出すの3つを、機械が行う。**
 同じ問いに同じ範囲が返らないと、そのあとの推論の入力が毎回変わるためである。
 
 ## 置くもの
 
 | 命令 | 何をするか | 返すもの |
 |---|---|---|
-| `collect.py --lang <言語> --purpose <用途>` | 軸の値が一致する制約を集める | 制約の一覧。0件の層も、0件として出す |
-| `check.py` | 制約の形を検める | 欄の欠け、出典の空、フォルダ名と宣言した軸の食い違い |
+| `collect.py --lang <言語> --purpose <用途>` | 軸の値が一致する規約を集める | 規約と、その中の規則。0件の層も、0件として出す |
+| `check.py` | 規約の形を検証する | 欄の欠け、出典の空、フォルダ名と宣言した軸の食い違い |
 | `index.py` | 人が読む索引を作り直す | 層ごとの一覧（生成物。手で書き換えない） |
 
-## 検めること
+## 検証すること
 
 | 検査 | 落ちる条件 |
 |---|---|
 | 欄の欠け | 言明・依存する軸・出どころ・検め方のどれかが空 |
 | 出典 | 原文で照合する文字列が空、または原文に無い |
 | 置き場所 | フォルダ名と、宣言した軸が食い違う |
-| 重なり | 同じ対象について2つの制約があり、どちらも穴を宣言していない |
+| 重なり | 同じ対象について2つの規則があり、どちらも「下位へ委ねる」と宣言していない |
 
 ## 生成物
 

diff --git a/docs/coding-skills-draft/references/軸.md b/docs/coding-skills-draft/references/軸.md
@@ -1,9 +1,9 @@
-# 軸 ── 何が変わると、制約が変わるか
+# 軸 ── 何が変わると、規約が変わるか
 
 ## 概要
 
 **軸とは、変えられるもののことである。**
-制約は、依存する軸の値が一致した場面でだけ効く。
+規約は、依存する軸の値が一致した場面でだけ効く。
 
 ## 軸と認める条件
 
@@ -25,12 +25,11 @@
 |---|---|
 | 1 | いまの軸のどれかを固定しても、その候補が動くかを確かめる |
 | 2 | 動くなら軸に上げる。動かないなら、既存の軸の値として表す |
-| 3 | **既にある制約の宣言を見直す。**
-足した軸に依存していた制約が、広すぎる宣言のまま残る |
+| 3 | **既にある規約の宣言を見直す** ── 足した軸に依存していた規則が、広すぎる宣言のまま残る |
 
 ## 層
 
-**層とは、その制約が依存する軸の集合である。**
+**層とは、その規約が依存する軸の集合である。**
 層は宣言から導出されるので、**あらかじめ並べない**。
 
 | 層 | 依存する軸 |
@@ -43,7 +42,7 @@
 ## 上書き
 
 **下層は上層を上書きできない。**
-上書きが要ると分かったら、それは**その制約の軸の宣言が足りなかった**ことの現れである。
+上書きが要ると分かったら、それは**その規約の軸の宣言が足りなかった**ことの現れである。
 値を変えず、依存する軸を直す。
 
 **例外は、上層が穴を宣言している場合だけである。**

diff --git a/docs/coding-skills-draft/references/語彙.md b/docs/coding-skills-draft/references/語彙.md
@@ -9,13 +9,12 @@
 
 | 語 | 何を指すか | 例 |
 |---|---|---|
-| **規約** | 1本の文書。ファイル1つ。**
-種別ごとに構造が違う** | `constraints/lang.rust/failure.md` |
+| **規約** | 1本の文書。ファイル1つ。**種別ごとに構造が違う** | `constraints/lang.rust/failure.md` |
 | **規則** | 守るべき言明1件。規則の規約と保証の規約だけが持つ | 「回復できる失敗は `Result` で返す」 |
 | **宣言** | 構造や道具を並べた表と図。規則ではない | 層の一覧、依存の可否、道具と版 |
 | **軸** | 変えられるもの。言語・アーキテクチャ・用途・実行環境 | 言語＝`rust` |
 | **種別** | 規約の型。構造／規則／道具／保証の4つ | `failure.md` は規則 |
-| **層** | その制約が依存する軸の集合。宣言から導出される | `lang.rust+arch.hexagonal` |
+| **層** | その規約が依存する軸の集合。宣言から導出される | `lang.rust+arch.hexagonal` |
 | **下位へ委ねる判断** | 上位が決めず、下位が決めてよいと宣言した1点 | 失敗の列挙の粒度 |
 | **正本** | 承認を経た規約が置かれる場所 | `constraints/` の下 |
 | **集める** | 軸の値が一致した規約を、正本から取り出すこと | `scripts/collect.py` |
